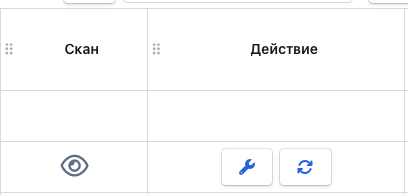
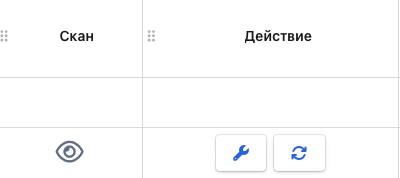
Update 2 files
- obuchenie/README-3/avtomaticheskii-vypusk.md
   - obuchenie/README-3/avtomaticheskii-vypusk.png

diff --git a/obuchenie/README-3/avtomaticheskii-vypusk.md b/obuchenie/README-3/avtomaticheskii-vypusk.md
@@ -50,6 +50,4 @@ order: 1
 
 На странице приказов доступны кнопки «просмотр», «перевыпустить приказ» и «загрузить скан» приказа (например, с ручной подписью. Форматы загружаемых файлов: PDF, PNG, JPEG, BMP, DIB, JFIF, PJPEG, PJP, JPG. Загруженный документ заменяет собой ранее сгенерированный документ с печатью).
 
-![](./avtomaticheskii-vypusk.png){width=408px height=195px}
-
-
+![](./avtomaticheskii-vypusk.png){width=400px height=178px}
